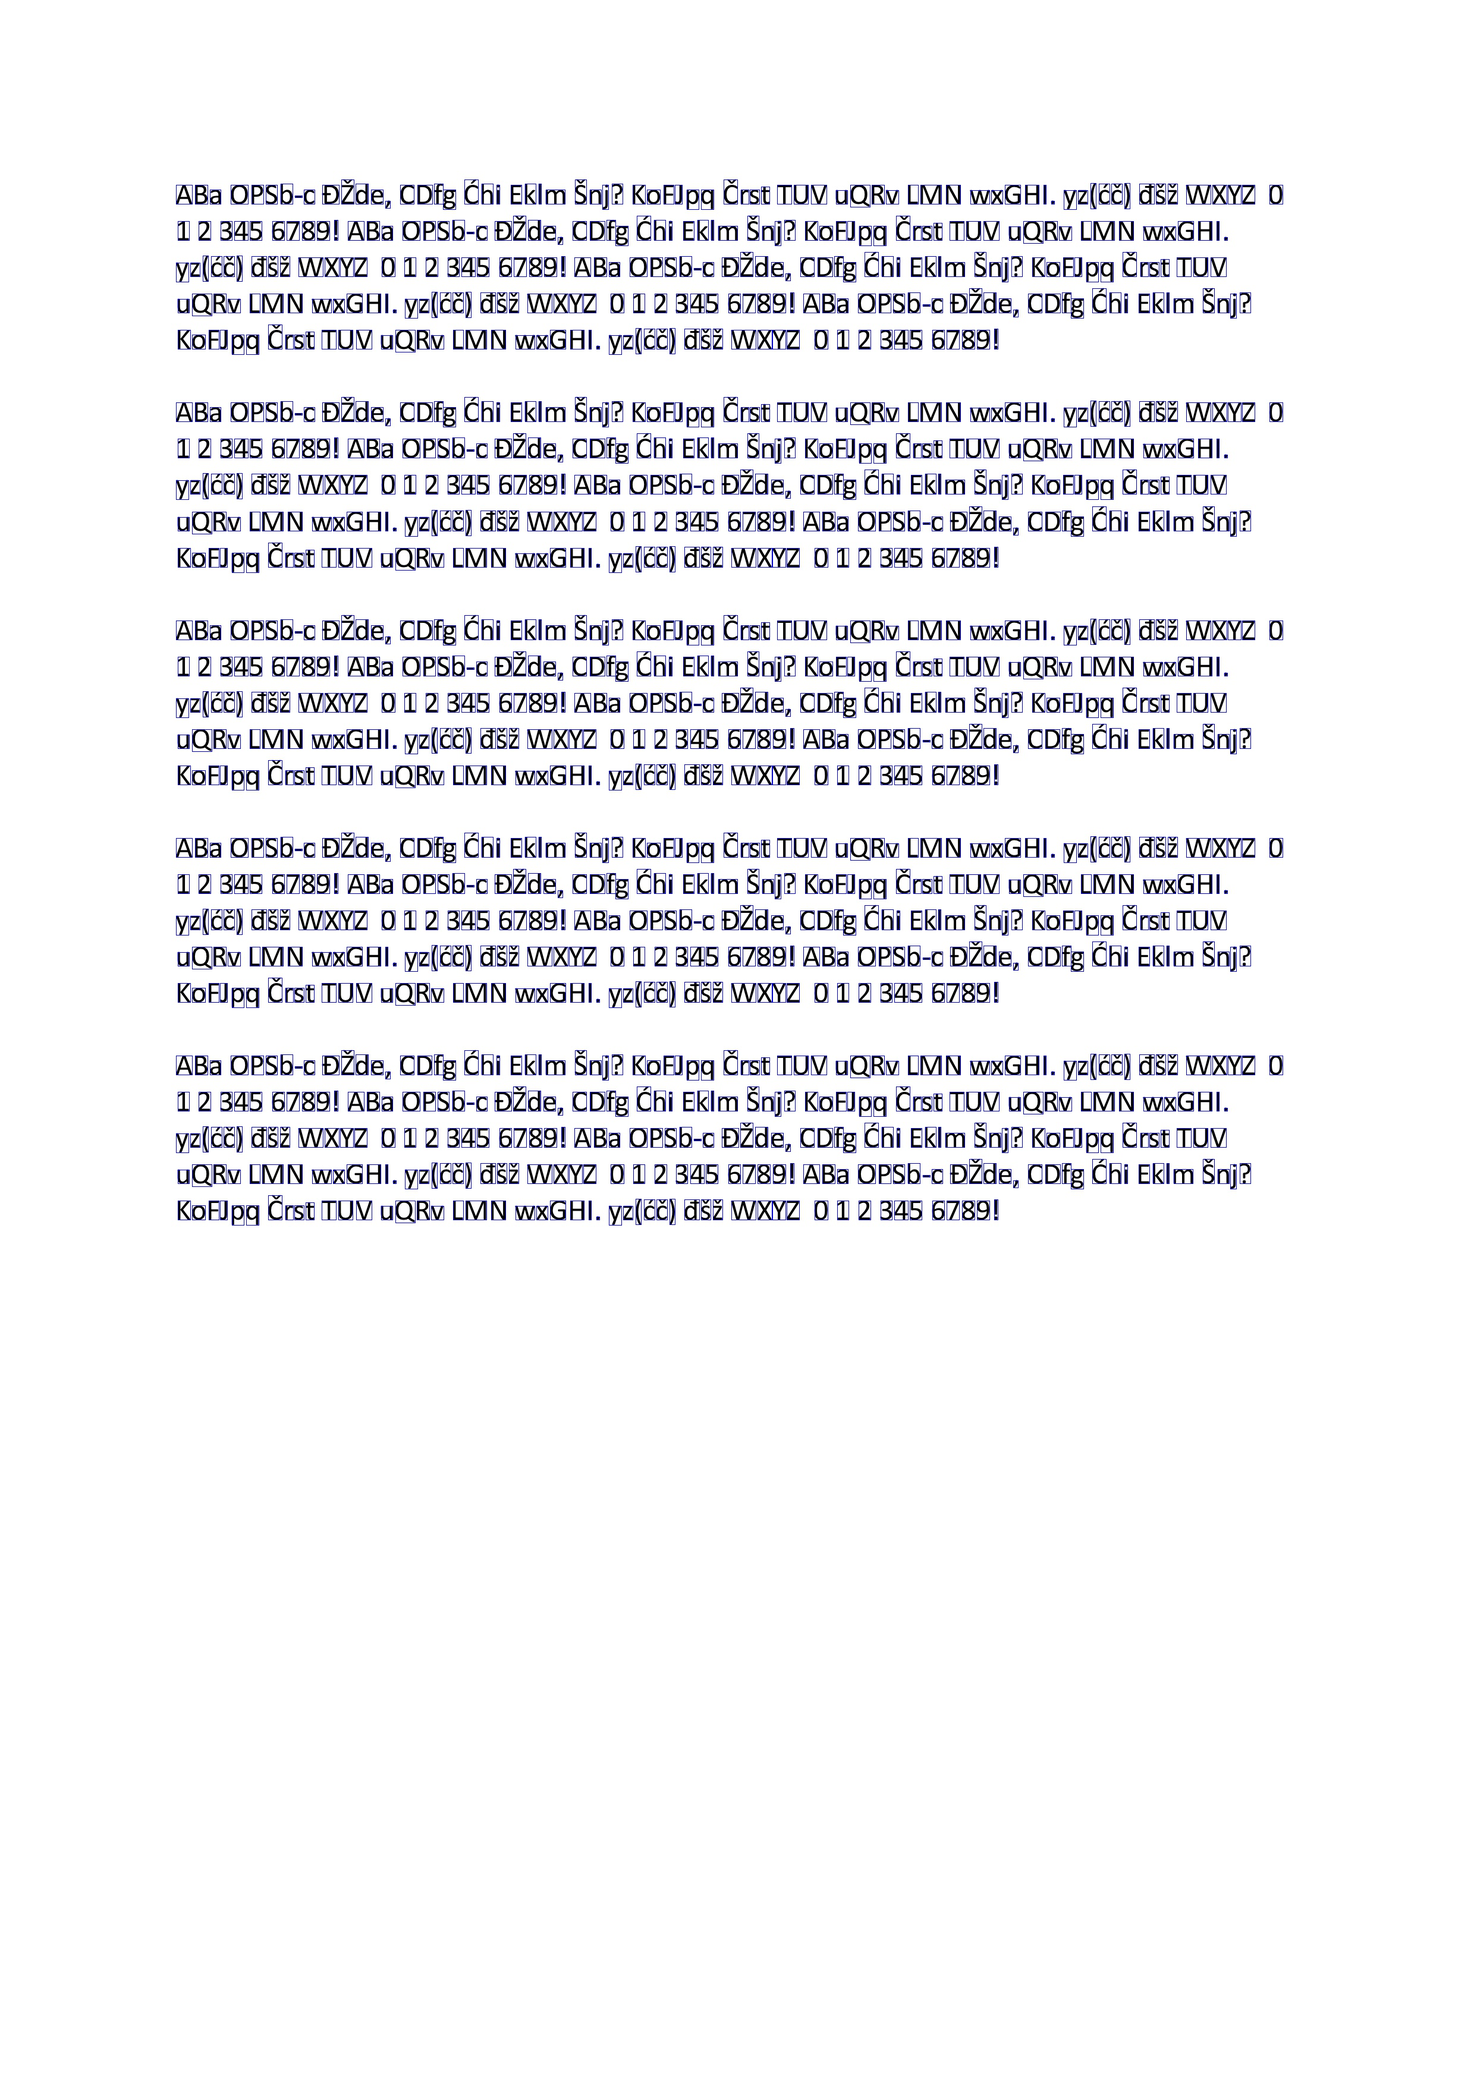
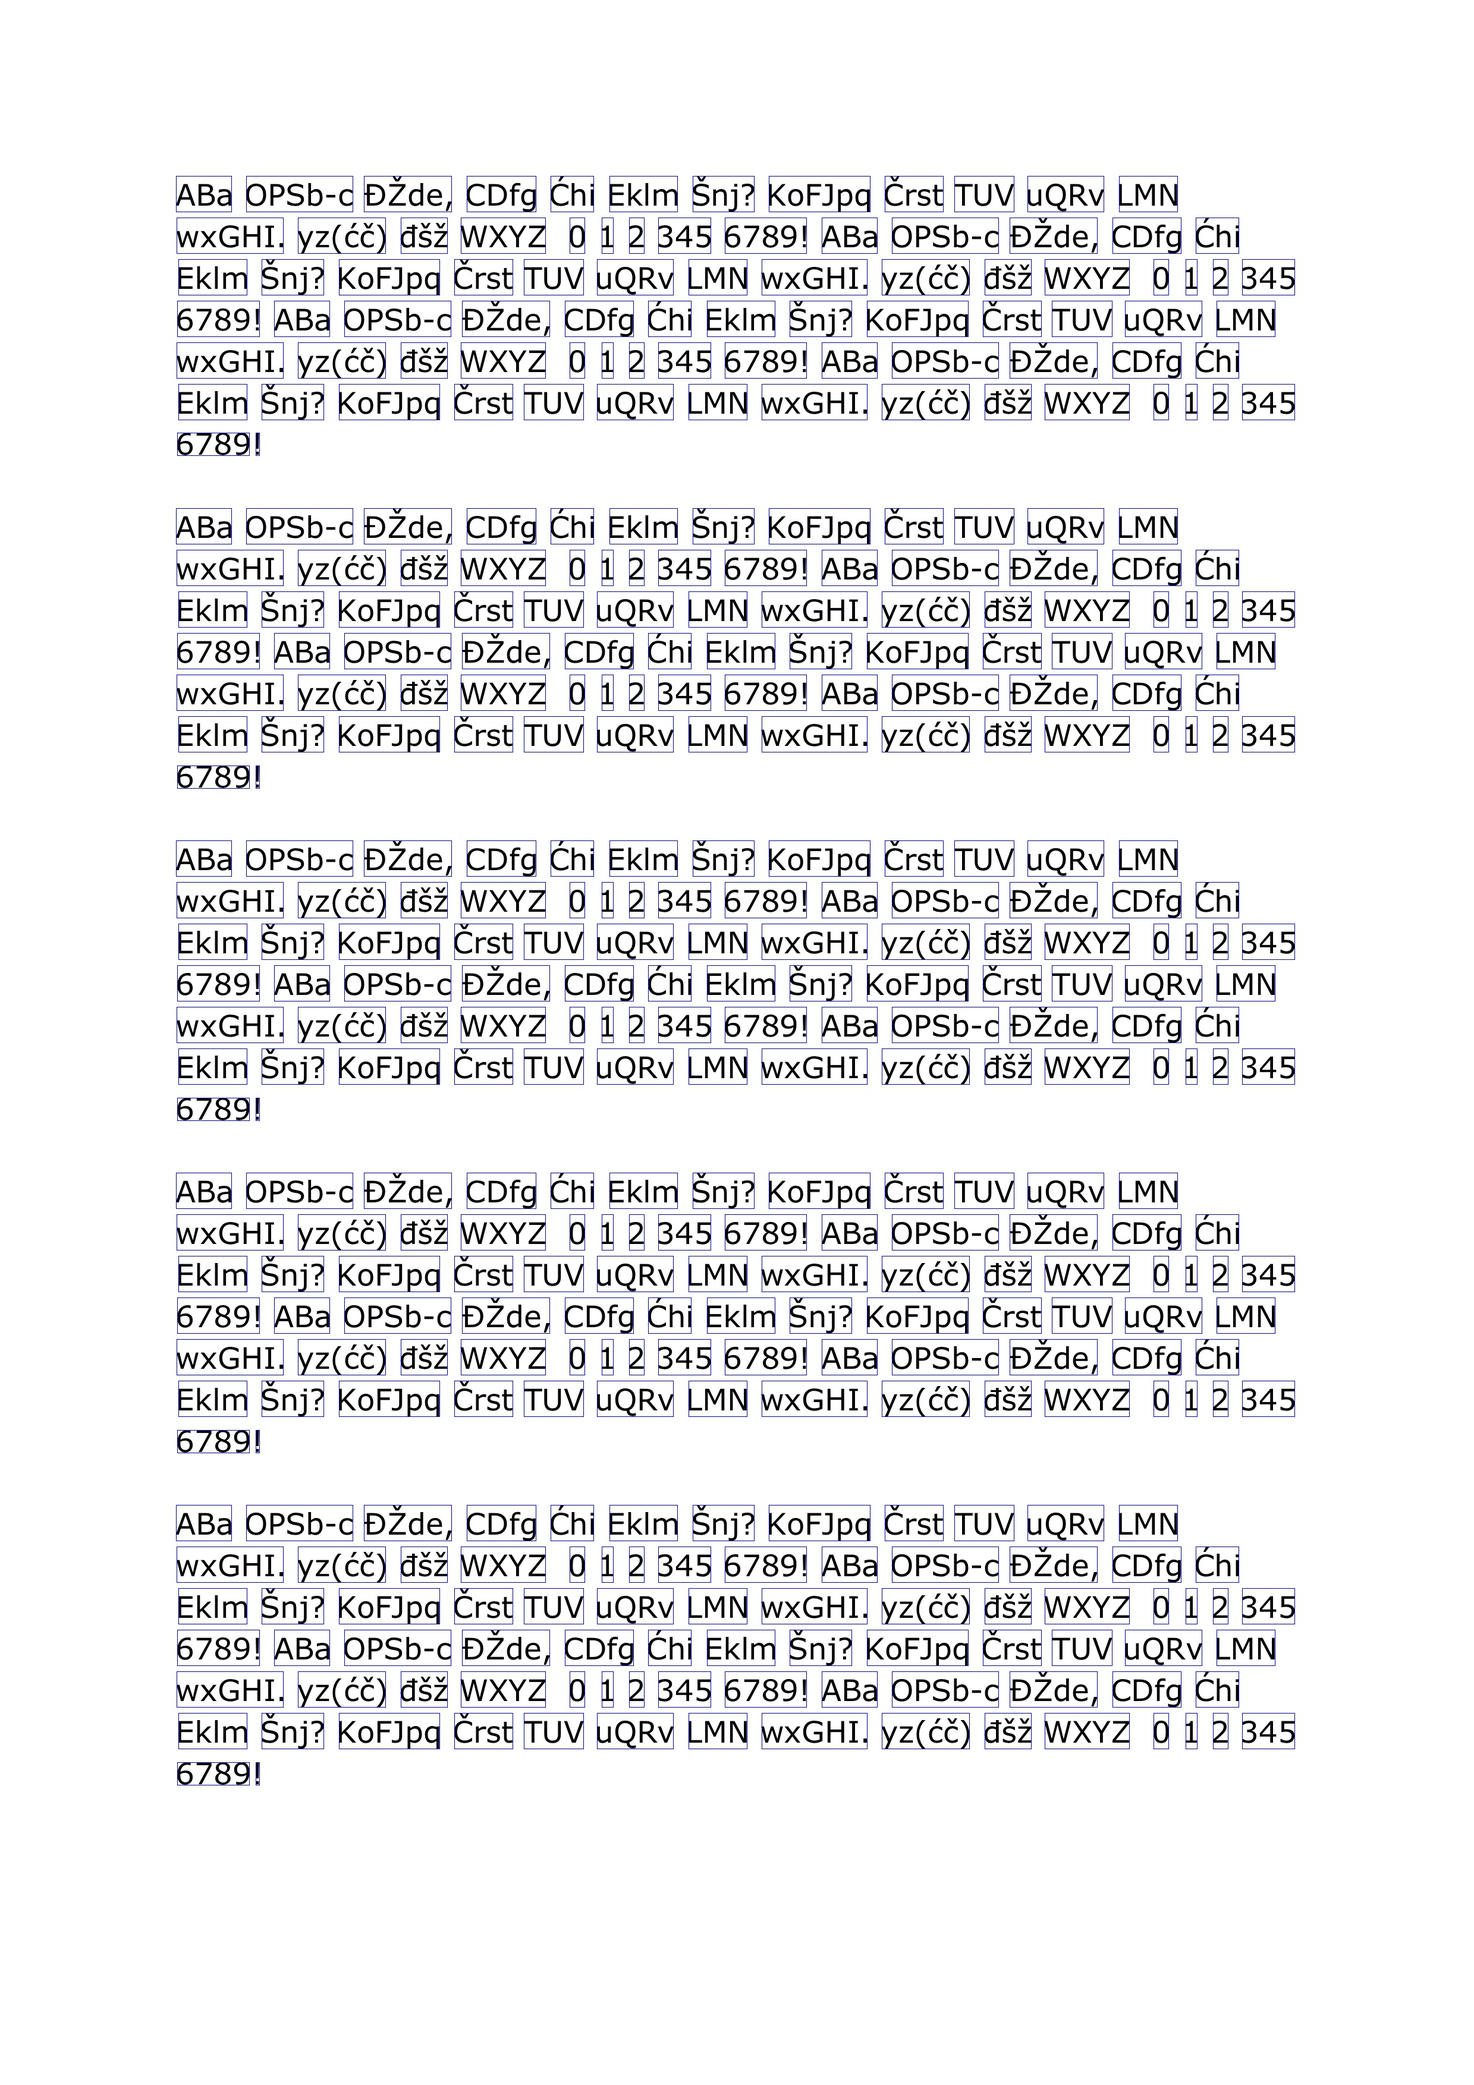
Code update.

Changed region(s): [[0.1242, 0.0621, 0.8697, 0.87]]

diff --git a/src/dataset_processor.py b/src/dataset_processor.py
@@ -1,14 +1,18 @@
 import os
 import cv2
 import argparse
+import uuid
 import numpy as np
+import pathlib
+
 from filters.noise.noise_removal import NoiseRemoval
 from filters.binarization import otsu
 from utils.helpers import load_image, debug_display_image, debug_plot_array
+from utils.char_mapper import vocab_letter_to_class
 
 from ocr_image import OCRImage
 from text_image_v3 import TextImageBaseline
-import imutils
+
 
 def process_image(image_path):
     input_image = load_image(image_path)
@@ -28,11 +32,13 @@ def process_image(image_path):
     text_image = TextImageBaseline(roi_image, width, height, min_x, min_y)
     return text_image
 
+
 def process_text_file(file_path):
     lines = []
     with open(file_path) as text_file:
         lines = text_file.read().splitlines()
     return lines
+
 
 def get_words(file_line):
     words = file_line.split(" ")
@@ -40,17 +46,30 @@ def get_words(file_line):
     words = list(filter(None, words))
     return words
 
-def process_words(ocr_words, file_words):
-    for index, (ocr_word, file_word) in enumerate(zip(ocr_words, file_words)):
+
+def process_chars(ocr_chars, file_chars, root_output_folder):
+    for ocr_char, file_char in zip(ocr_chars, file_chars):
+        scaled_image = ocr_char.get_scaled_image()
+
+        file_name = str(uuid.uuid4()) + ".jpg"
+        letter_class = vocab_letter_to_class[file_char]
+        output_folder = os.path.join(root_output_folder, letter_class)
+        output_file = os.path.join(output_folder, file_name)
+        pathlib.Path(output_folder).mkdir(parents=True, exist_ok=True)
+        cv2.imwrite(output_file, scaled_image)
+
+
+def process_words(ocr_words, file_words, root_output_folder):
+    for ocr_word, file_word in zip(ocr_words, file_words):
         ocr_chars = ocr_word.get_segments()
         file_chars = list(file_word)
 
         if len(ocr_chars) != len(file_chars):
-
             print("Neispravan broj znakova u rijeci: " + file_word)
             print("ocr_chars:", len(ocr_chars), "file_chars", len(file_chars))
             continue
 
+        process_chars(ocr_chars, file_chars, root_output_folder)
 
 
 def process(args):
@@ -62,14 +81,13 @@ def process(args):
         print("Neispravan broj linija!")
         return
 
-    for index, (ocr_line, file_line) in enumerate(zip(text_lines, file_lines)):        
+    for index, (ocr_line, file_line) in enumerate(zip(text_lines, file_lines)):
         ocr_words = ocr_line.get_segments()
         file_words = get_words(file_line)
 
         if len(ocr_words) == len(file_words):
-            process_words(ocr_words, file_words)
+            process_words(ocr_words, file_words, args.output)
         else:
-            import pdb; pdb.set_trace()
             print("Neispravan broj rijeci na liniji " + str(index + 1))
             continue
 

diff --git a/src/utils/char_mapper.py b/src/utils/char_mapper.py
@@ -3,9 +3,6 @@
 alphabet_upper_mapper_letter_to_class = {
     'A': 'upper_a',
     'B': 'upper_b',
-    'C': 'upper_c',
-    'Č': 'upper_c1',
-    'Ć': 'upper_c2',
     'D': 'upper_d',
     'Đ': 'upper_d1',
     'E': 'upper_e',
@@ -18,28 +15,16 @@ alphabet_upper_mapper_letter_to_class = {
     'L': 'upper_l',
     'M': 'upper_m',
     'N': 'upper_n',
-    'O': 'upper_o',
     'P': 'upper_p',
     'R': 'upper_r',
-    'S': 'upper_s',
-    'Š': 'upper_s1',
     'T': 'upper_t',
     'U': 'upper_u',
-    'V': 'upper_v',
-    'Z': 'upper_z',
-    'Ž': 'upper_z1',
-    'X': 'upper_x',
-    'Y': 'upper_y',
-    'W': 'upper_w',
     'Q': 'upper_q',
 }
 
 alphabet_lower_mapper_letter_to_class = {
     'a': 'lower_a',
     'b': 'lower_b',
-    'c': 'lower_c',
-    'č': 'lower_c1',
-    'ć': 'lower_c2',
     'd': 'lower_d',
     'đ': 'lower_d1',
     'e': 'lower_e',
@@ -52,20 +37,39 @@ alphabet_lower_mapper_letter_to_class = {
     'l': 'lower_l',
     'm': 'lower_m',
     'n': 'lower_n',
-    'o': 'lower_o',
     'p': 'lower_p',
     'r': 'lower_r',
-    's': 'lower_s',
-    'š': 'lower_s1',
     't': 'lower_t',
     'u': 'lower_u',
-    'v': 'lower_v',
-    'z': 'lower_z',
-    'ž': 'lower_z1',
-    'x': 'lower_x',
-    'y': 'lower_y',
-    'w': 'lower_w',
     'q': 'lower_q',
+}
+
+unique_letter_to_class = {
+    'W': 'unique_w',
+    'V': 'unique_v',
+    'Z': 'unique_z',
+    'Ž': 'unique_z1',
+    'X': 'unique_x',
+    'Y': 'unique_y',
+    'S': 'unique_s',
+    'Š': 'unique_s1',
+    'C': 'unique_c',
+    'Č': 'unique_c1',
+    'Ć': 'unique_c2',
+    'O': 'unique_o',
+
+    'w': 'unique_w',
+    'x': 'unique_x',
+    'v': 'unique_v',
+    'z': 'unique_z',
+    'ž': 'unique_z1',
+    's': 'unique_s',
+    'š': 'unique_s1',
+    'o': 'unique_o',
+    'c': 'unique_c',
+    'č': 'unique_c1',
+    'ć': 'unique_c2',
+    'y': 'unique_y',
 }
 
 number_letter_to_class = {
@@ -95,5 +99,6 @@ vocab_letter_to_class = {
     **alphabet_lower_mapper_letter_to_class,
     **alphabet_upper_mapper_letter_to_class,
     **number_letter_to_class,
-    **special_letter_to_class
+    **special_letter_to_class,
+    **unique_letter_to_class
 }

diff --git a/src/test.py b/src/test.py
@@ -21,7 +21,7 @@ def draw_box(image, ocr_image):
 # input_image = load_image("../data/img_0861.jpg")
 # input_image = load_image("../data/word.jpg")
 
-input_image = load_image("../dataset_docs/calibri_12.jpg")
+# input_image = load_image("../dataset_docs/calibri_12.jpg")
 # input_image = load_image("../dataset_docs/calibri_12_bold.jpg")
 # input_image = load_image("../dataset_docs/tnr_12_bold.jpg")
 # input_image = load_image("../dataset_docs/tnr_12.jpg")
@@ -29,7 +29,7 @@ input_image = load_image("../dataset_docs/calibri_12.jpg")
 # input_image = load_image("../dataset_docs/arial_12_bold.jpg")
 # input_image = load_image("../dataset_docs/helvetica_12.jpg")
 # input_image = load_image("../dataset_docs/helvetica_12_bold.jpg")
-# input_image = load_image("../dataset_docs/verdana_12.jpg")
+input_image = load_image("../dataset_docs/verdana_12.jpg")
 # input_image = load_image("../dataset_docs/verdana_12_bold.jpg")
 # input_image = load_image("../dataset_docs/comic_12.jpg")
 # input_image = load_image("../dataset_docs/comic_12_bold.jpg")
@@ -67,9 +67,9 @@ for line in lines:
         
         chars = word.get_segments()
         words_count += 1
-        # draw_box(backtorgb, word)
+        draw_box(backtorgb, word)
         for char in chars:
-            draw_box(backtorgb, char)
+            # draw_box(backtorgb, char)
             chars_count += 1
 
 print("Broj rijeci", words_count)

diff --git a/src/char_image.py b/src/char_image.py
@@ -2,7 +2,40 @@ import cv2
 import numpy as np
 from ocr_image import OCRImage
 
+
 class CharImage(OCRImage):
+
+    SCALED_ROI_IMAGE_SIZE = 36
+    SCALED_IMAGE_SIZE = 40
 
     def __init__(self, image, width, height, x_offset=0, y_offset=0):
         super().__init__(image, width, height, x_offset, y_offset)
+
+    def get_scaled_image(self):
+        image = self.get_image()
+        old_image_size = image.shape[:2]
+
+        ratio = float(self.SCALED_ROI_IMAGE_SIZE) / max(old_image_size)
+
+        if ratio < 1:
+            new_image = self._scale_image(image, ratio)
+        else:
+            new_image = image
+
+        new_height, new_width = new_image.shape[:2]
+
+        delta_w = self.SCALED_IMAGE_SIZE - new_width
+        delta_h = self.SCALED_IMAGE_SIZE - new_height
+        top, bottom = delta_h//2, delta_h-(delta_h//2)
+        left, right = delta_w//2, delta_w-(delta_w//2)
+
+        new_image = cv2.copyMakeBorder(image, top, bottom, left, right,
+                                       cv2.BORDER_CONSTANT, value=0)
+        return new_image
+
+    def _scale_image(self, image, ratio):
+        old_image_size = image.shape[:2]
+        new_height, new_width = tuple([int(x * ratio) for x in old_image_size])
+        image = cv2.resize(image, (new_width, new_height),
+                           interpolation=cv2.INTER_NEAREST)
+        return image

diff --git a/src/word_image.py b/src/word_image.py
@@ -176,7 +176,7 @@ class WordImage(OCRImage):
             roi_image = vertical_image[box_start_y:box_end_y +
                                        1, box_start_x:box_end_x + 1]
 
-            char = WordImage(roi_image, char_width,
+            char = CharImage(roi_image, char_width,
                              char_height, x_offset, y_offset)
             chars.append(char)
 

diff --git a/dataset_docs/calibri_12_bold.md b/dataset_docs/calibri_12_bold.md
@@ -1,25 +1,25 @@
-ABa OPSb-c ĐŽde, CDfg Ćhi Eklm Šnj? KoFJpq Črst TUV uQRv LMN wxGHI. yz(ćč) đšž WXYZ
-0 1 2 345 6789! ABa OPSb-c ĐŽde, CDfg Ćhi Eklm Šnj? KoFJpq Črst TUV uQRv LMN wxGHI.
-yz(ćč) đšž WXYZ  0 1 2 345 6789! ABa OPSb-c ĐŽde, CDfg Ćhi Eklm Šnj? KoFJpq Črst TUV
-uQRv LMN wxGHI. yz(ćč) đšž WXYZ  0 1 2 345 6789! ABa OPSb-c ĐŽde, CDfg Ćhi Eklm Šnj?
-KoFJpq Črst TUV uQRv LMN wxGHI. yz(ćč) đšž WXYZ  0 1 2 345 6789!
-ABa OPSb-c ĐŽde, CDfg Ćhi Eklm Šnj? KoFJpq Črst TUV uQRv LMN wxGHI. yz(ćč) đšž WXYZ
-0 1 2 345 6789! ABa OPSb-c ĐŽde, CDfg Ćhi Eklm Šnj? KoFJpq Črst TUV uQRv LMN wxGHI.
-yz(ćč) đšž WXYZ  0 1 2 345 6789! ABa OPSb-c ĐŽde, CDfg Ćhi Eklm Šnj? KoFJpq Črst TUV
-uQRv LMN wxGHI. yz(ćč) đšž WXYZ  0 1 2 345 6789! ABa OPSb-c ĐŽde, CDfg Ćhi Eklm Šnj?
-KoFJpq Črst TUV uQRv LMN wxGHI. yz(ćč) đšž WXYZ  0 1 2 345 6789!
-ABa OPSb-c ĐŽde, CDfg Ćhi Eklm Šnj? KoFJpq Črst TUV uQRv LMN wxGHI. yz(ćč) đšž WXYZ
-0 1 2 345 6789! ABa OPSb-c ĐŽde, CDfg Ćhi Eklm Šnj? KoFJpq Črst TUV uQRv LMN wxGHI.
-yz(ćč) đšž WXYZ  0 1 2 345 6789! ABa OPSb-c ĐŽde, CDfg Ćhi Eklm Šnj? KoFJpq Črst TUV
-uQRv LMN wxGHI. yz(ćč) đšž WXYZ  0 1 2 345 6789! ABa OPSb-c ĐŽde, CDfg Ćhi Eklm Šnj?
-KoFJpq Črst TUV uQRv LMN wxGHI. yz(ćč) đšž WXYZ  0 1 2 345 6789!
-ABa OPSb-c ĐŽde, CDfg Ćhi Eklm Šnj? KoFJpq Črst TUV uQRv LMN wxGHI. yz(ćč) đšž WXYZ
-0 1 2 345 6789! ABa OPSb-c ĐŽde, CDfg Ćhi Eklm Šnj? KoFJpq Črst TUV uQRv LMN wxGHI.
-yz(ćč) đšž WXYZ  0 1 2 345 6789! ABa OPSb-c ĐŽde, CDfg Ćhi Eklm Šnj? KoFJpq Črst TUV
-uQRv LMN wxGHI. yz(ćč) đšž WXYZ  0 1 2 345 6789! ABa OPSb-c ĐŽde, CDfg Ćhi Eklm Šnj?
-KoFJpq Črst TUV uQRv LMN wxGHI. yz(ćč) đšž WXYZ  0 1 2 345 6789!
-ABa OPSb-c ĐŽde, CDfg Ćhi Eklm Šnj? KoFJpq Črst TUV uQRv LMN wxGHI. yz(ćč) đšž WXYZ
-0 1 2 345 6789! ABa OPSb-c ĐŽde, CDfg Ćhi Eklm Šnj? KoFJpq Črst TUV uQRv LMN wxGHI.
-yz(ćč) đšž WXYZ  0 1 2 345 6789! ABa OPSb-c ĐŽde, CDfg Ćhi Eklm Šnj? KoFJpq Črst TUV
-uQRv LMN wxGHI. yz(ćč) đšž WXYZ  0 1 2 345 6789! ABa OPSb-c ĐŽde, CDfg Ćhi Eklm Šnj?
-KoFJpq Črst TUV uQRv LMN wxGHI. yz(ćč) đšž WXYZ  0 1 2 345 6789!
+ABa OPSb-cĐŽde, CDfg Ćhi Eklm Šnj? KoFJpq ČrstTUV uQRv LMN wxGHI. yz(ćč) đšž WXYZ
+0 1 2 345 6789! ABa OPSb-cĐŽde, CDfg Ćhi Eklm Šnj? KoFJpq ČrstTUV uQRv LMN wxGHI.
+yz(ćč) đšž WXYZ  0 1 2 345 6789! ABa OPSb-cĐŽde, CDfg Ćhi Eklm Šnj? KoFJpq ČrstTUV
+uQRv LMN wxGHI. yz(ćč) đšž WXYZ  0 1 2 345 6789! ABa OPSb-cĐŽde, CDfg Ćhi Eklm Šnj?
+KoFJpq ČrstTUV uQRv LMN wxGHI. yz(ćč) đšž WXYZ  0 1 2 345 6789!
+ABa OPSb-cĐŽde, CDfg Ćhi Eklm Šnj? KoFJpq ČrstTUV uQRv LMN wxGHI. yz(ćč) đšž WXYZ
+0 1 2 345 6789! ABa OPSb-cĐŽde, CDfg Ćhi Eklm Šnj? KoFJpq ČrstTUV uQRv LMN wxGHI.
+yz(ćč) đšž WXYZ  0 1 2 345 6789! ABa OPSb-cĐŽde, CDfg Ćhi Eklm Šnj? KoFJpq ČrstTUV
+uQRv LMN wxGHI. yz(ćč) đšž WXYZ  0 1 2 345 6789! ABa OPSb-cĐŽde, CDfg Ćhi Eklm Šnj?
+KoFJpq ČrstTUV uQRv LMN wxGHI. yz(ćč) đšž WXYZ  0 1 2 345 6789!
+ABa OPSb-cĐŽde, CDfg Ćhi Eklm Šnj? KoFJpq ČrstTUV uQRv LMN wxGHI. yz(ćč) đšž WXYZ
+0 1 2 345 6789! ABa OPSb-cĐŽde, CDfg Ćhi Eklm Šnj? KoFJpq ČrstTUV uQRv LMN wxGHI.
+yz(ćč) đšž WXYZ  0 1 2 345 6789! ABa OPSb-cĐŽde, CDfg Ćhi Eklm Šnj? KoFJpq ČrstTUV
+uQRv LMN wxGHI. yz(ćč) đšž WXYZ  0 1 2 345 6789! ABa OPSb-cĐŽde, CDfg Ćhi Eklm Šnj?
+KoFJpq ČrstTUV uQRv LMN wxGHI. yz(ćč) đšž WXYZ  0 1 2 345 6789!
+ABa OPSb-cĐŽde, CDfg Ćhi Eklm Šnj? KoFJpq ČrstTUV uQRv LMN wxGHI. yz(ćč) đšž WXYZ
+0 1 2 345 6789! ABa OPSb-cĐŽde, CDfg Ćhi Eklm Šnj? KoFJpq ČrstTUV uQRv LMN wxGHI.
+yz(ćč) đšž WXYZ  0 1 2 345 6789! ABa OPSb-cĐŽde, CDfg Ćhi Eklm Šnj? KoFJpq ČrstTUV
+uQRv LMN wxGHI. yz(ćč) đšž WXYZ  0 1 2 345 6789! ABa OPSb-cĐŽde, CDfg Ćhi Eklm Šnj?
+KoFJpq ČrstTUV uQRv LMN wxGHI. yz(ćč) đšž WXYZ  0 1 2 345 6789!
+ABa OPSb-cĐŽde, CDfg Ćhi Eklm Šnj? KoFJpq ČrstTUV uQRv LMN wxGHI. yz(ćč) đšž WXYZ
+0 1 2 345 6789! ABa OPSb-cĐŽde, CDfg Ćhi Eklm Šnj? KoFJpq ČrstTUV uQRv LMN wxGHI.
+yz(ćč) đšž WXYZ  0 1 2 345 6789! ABa OPSb-cĐŽde, CDfg Ćhi Eklm Šnj? KoFJpq ČrstTUV
+uQRv LMN wxGHI. yz(ćč) đšž WXYZ  0 1 2 345 6789! ABa OPSb-cĐŽde, CDfg Ćhi Eklm Šnj?
+KoFJpq ČrstTUV uQRv LMN wxGHI. yz(ćč) đšž WXYZ  0 1 2 345 6789!

diff --git a/dataset_docs/verdana_12.md b/dataset_docs/verdana_12.md
@@ -4,32 +4,32 @@ Eklm Šnj? KoFJpq Črst TUV uQRv LMN wxGHI. yz(ćč) đšž WXYZ  0 1 2 345
 6789! ABa OPSb-c ĐŽde, CDfg Ćhi Eklm Šnj? KoFJpq Črst TUV uQRv LMN
 wxGHI. yz(ćč) đšž WXYZ  0 1 2 345 6789! ABa OPSb-c ĐŽde, CDfg Ćhi
 Eklm Šnj? KoFJpq Črst TUV uQRv LMN wxGHI. yz(ćč) đšž WXYZ  0 1 2 345
-6789!
+6789 !
 ABa OPSb-c ĐŽde, CDfg Ćhi Eklm Šnj? KoFJpq Črst TUV uQRv LMN 
 wxGHI. yz(ćč) đšž WXYZ 0 1 2 345 6789! ABa OPSb-c ĐŽde, CDfg Ćhi
 Eklm Šnj? KoFJpq Črst TUV uQRv LMN wxGHI. yz(ćč) đšž WXYZ  0 1 2 345
 6789! ABa OPSb-c ĐŽde, CDfg Ćhi Eklm Šnj? KoFJpq Črst TUV uQRv LMN
 wxGHI. yz(ćč) đšž WXYZ  0 1 2 345 6789! ABa OPSb-c ĐŽde, CDfg Ćhi
 Eklm Šnj? KoFJpq Črst TUV uQRv LMN wxGHI. yz(ćč) đšž WXYZ  0 1 2 345
-6789!
+6789 !
 ABa OPSb-c ĐŽde, CDfg Ćhi Eklm Šnj? KoFJpq Črst TUV uQRv LMN 
 wxGHI. yz(ćč) đšž WXYZ 0 1 2 345 6789! ABa OPSb-c ĐŽde, CDfg Ćhi
 Eklm Šnj? KoFJpq Črst TUV uQRv LMN wxGHI. yz(ćč) đšž WXYZ  0 1 2 345
 6789! ABa OPSb-c ĐŽde, CDfg Ćhi Eklm Šnj? KoFJpq Črst TUV uQRv LMN
 wxGHI. yz(ćč) đšž WXYZ  0 1 2 345 6789! ABa OPSb-c ĐŽde, CDfg Ćhi
 Eklm Šnj? KoFJpq Črst TUV uQRv LMN wxGHI. yz(ćč) đšž WXYZ  0 1 2 345
-6789!
+6789 !
 ABa OPSb-c ĐŽde, CDfg Ćhi Eklm Šnj? KoFJpq Črst TUV uQRv LMN 
 wxGHI. yz(ćč) đšž WXYZ 0 1 2 345 6789! ABa OPSb-c ĐŽde, CDfg Ćhi
 Eklm Šnj? KoFJpq Črst TUV uQRv LMN wxGHI. yz(ćč) đšž WXYZ  0 1 2 345
 6789! ABa OPSb-c ĐŽde, CDfg Ćhi Eklm Šnj? KoFJpq Črst TUV uQRv LMN
 wxGHI. yz(ćč) đšž WXYZ  0 1 2 345 6789! ABa OPSb-c ĐŽde, CDfg Ćhi
 Eklm Šnj? KoFJpq Črst TUV uQRv LMN wxGHI. yz(ćč) đšž WXYZ  0 1 2 345
-6789!
+6789 !
 ABa OPSb-c ĐŽde, CDfg Ćhi Eklm Šnj? KoFJpq Črst TUV uQRv LMN 
 wxGHI. yz(ćč) đšž WXYZ 0 1 2 345 6789! ABa OPSb-c ĐŽde, CDfg Ćhi
 Eklm Šnj? KoFJpq Črst TUV uQRv LMN wxGHI. yz(ćč) đšž WXYZ  0 1 2 345
 6789! ABa OPSb-c ĐŽde, CDfg Ćhi Eklm Šnj? KoFJpq Črst TUV uQRv LMN
 wxGHI. yz(ćč) đšž WXYZ  0 1 2 345 6789! ABa OPSb-c ĐŽde, CDfg Ćhi
 Eklm Šnj? KoFJpq Črst TUV uQRv LMN wxGHI. yz(ćč) đšž WXYZ  0 1 2 345
-6789!
+6789 !
